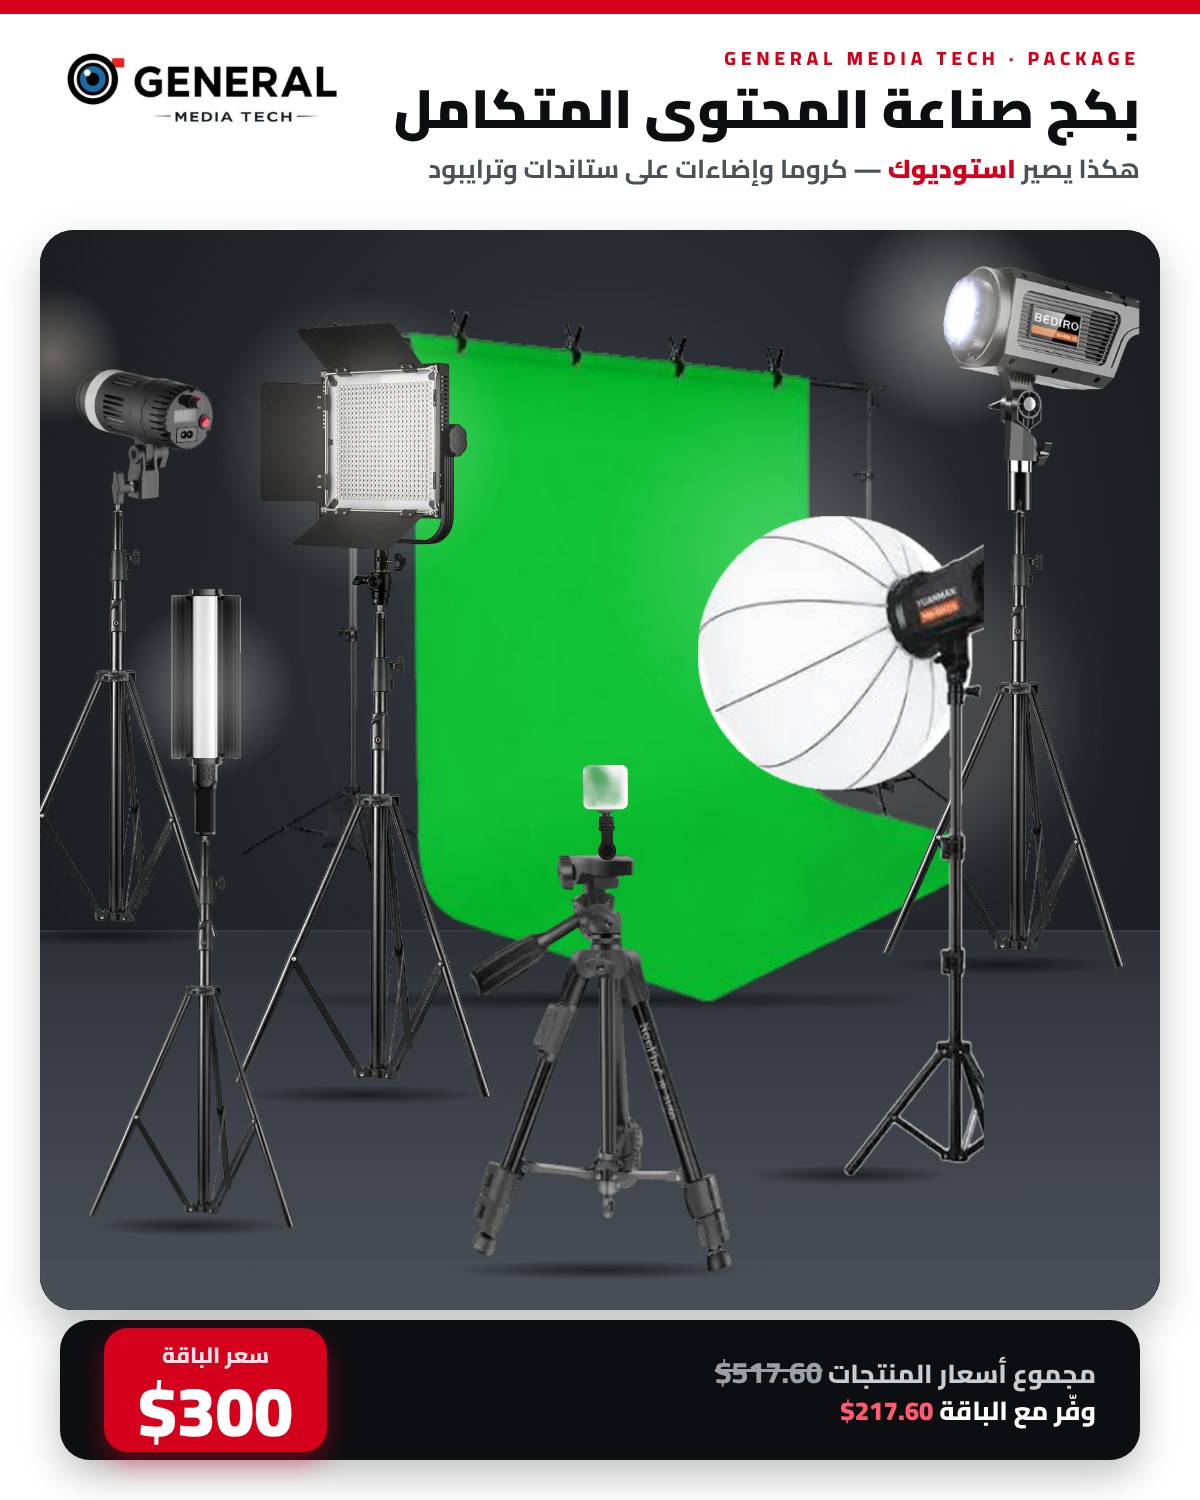
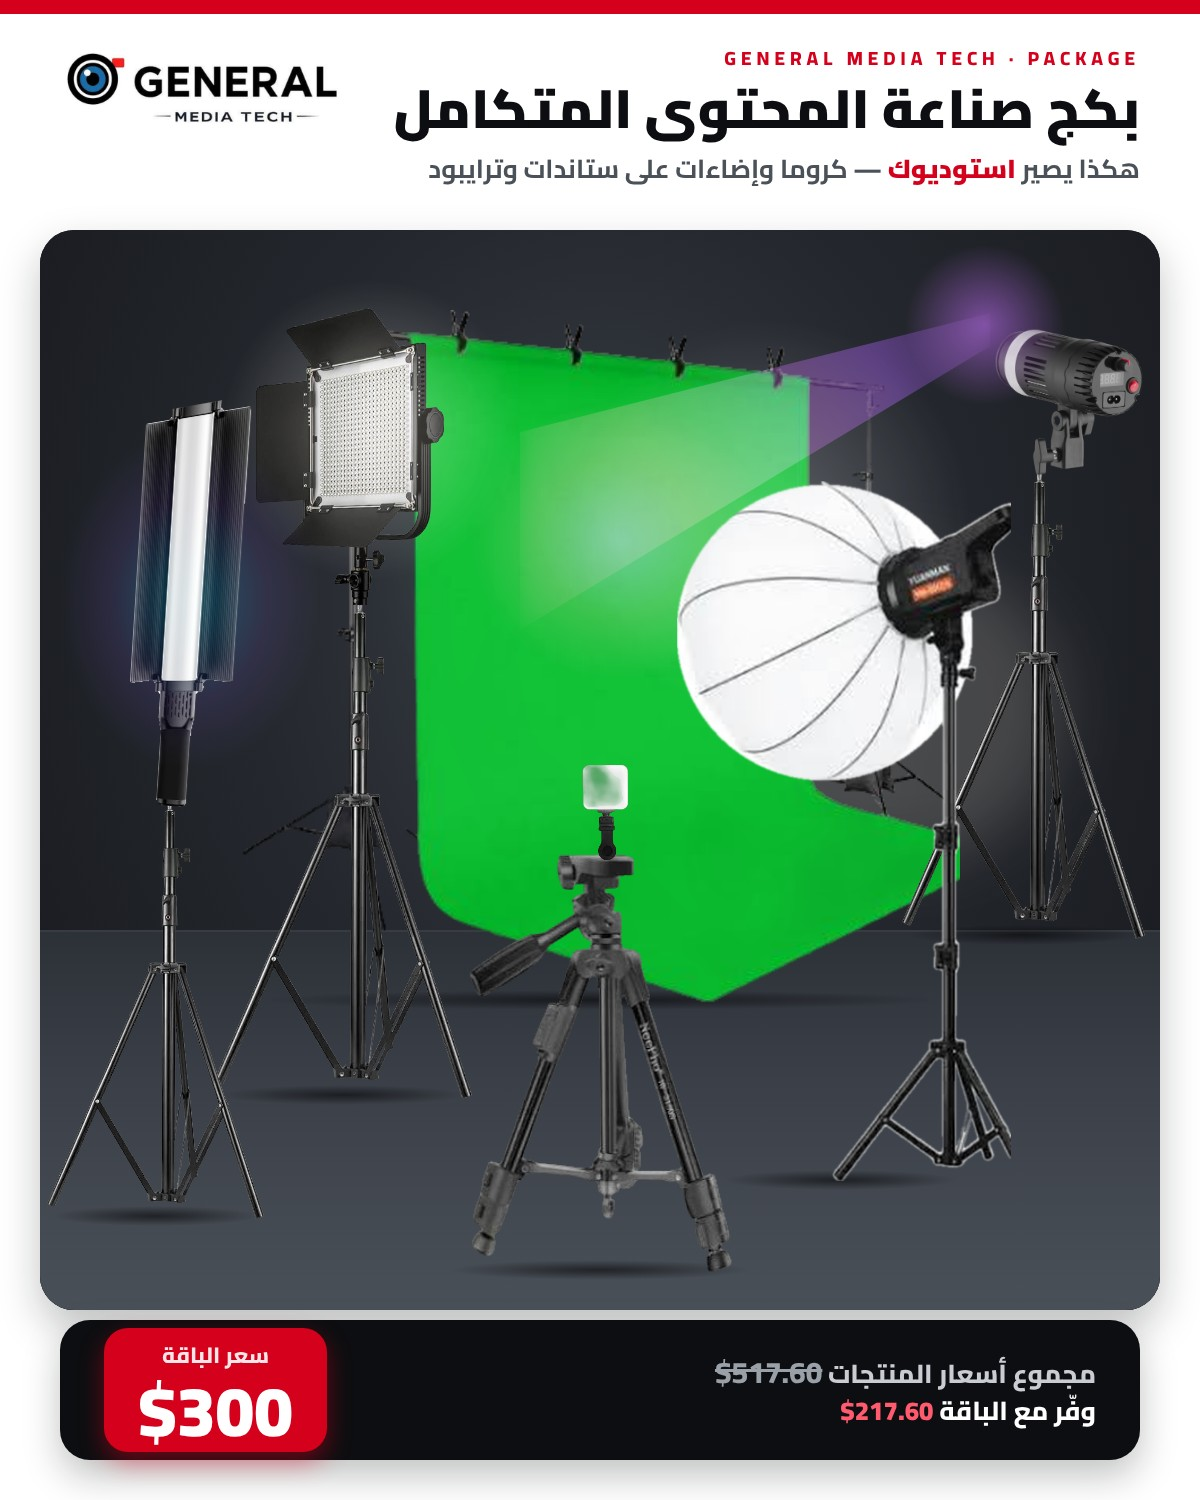
TASK-B0388/B0389 (seq B679): صورة الاستوديو المعدّلة · صور الباقة · نقطة حمراء للمنتج الذي له فيديو · gmt-v20261114i
Claude-Session: https://claude.ai/code/session_01XEjHNW9dqo1zWS8cEcUN7i

diff --git a/store.html b/store.html
@@ -57,6 +57,7 @@ window.GMT_PUBLIC = 1;</script>
         #pm-complete { margin: 6px 0 16px; background: #fafafa; border: 1px solid #f0f0f0; border-radius: 16px; padding: 12px; }
         #pm-complete h4 { font-size: 14px; font-weight: 800; margin: 0 0 10px; color: #111; } #pm-complete h4 small { font-weight: 600; color: #6b7280; font-size: 11.5px; }
         .pmc-row { display: flex; gap: 10px; overflow-x: auto; padding-bottom: 4px; }
+        .pc-vid { position: absolute; bottom: 8px; left: 8px; width: 26px; height: 26px; border-radius: 50%; background: #D5001C; color: #fff; display: flex; align-items: center; justify-content: center; font-size: 12px; box-shadow: 0 0 0 3px rgba(255,255,255,.9), 0 3px 10px rgba(213,0,28,.45); z-index: 2; pointer-events: none; }
         /* (TASK-B0380) عرض الطقم: سعر تقريبي يُطلب عبر واتساب — لا خصم تلقائي */
         #pm-kit { margin: 6px 0 16px; border-radius: 16px; padding: 12px; background: linear-gradient(135deg,#fff7ed,#fff); border: 1.5px solid #fed7aa; }
         #pm-kit .pk-h { display: flex; align-items: center; justify-content: space-between; gap: 8px; font: 800 14px Cairo, sans-serif; color: #111; margin-bottom: 10px; }
@@ -1140,6 +1141,8 @@ function _buildProductCard(prod) {
         imgWrap.appendChild(pen);
     }
     /* (TASK-0371 · المالك seq 653 «الأشياء اللي عليها عرض بيطلع علامة عرض وسعر مشطوب ومغيَّر») */
+    /* (المالك seq B679) «حط لي عليهم نقطة حمراء لحتى أشاهدهم» ⇒ المنتج الذي له فيديو: نقطةٌ حمراء بعلامة تشغيل على بطاقته */
+    if (String(prod.video_url || '').trim()) { const vd = document.createElement('div'); vd.className = 'pc-vid'; vd.title = 'فيه فيديو'; vd.innerHTML = '<i class="ph-fill ph-play"></i>'; imgWrap.appendChild(vd); }
     const _off = gmtProdOffer(prod);
     if (_off) { const ob = document.createElement('div'); ob.className = 'pc-offer'; ob.textContent = 'عرض −' + _off.pct + '%'; imgWrap.appendChild(ob); }
     card.appendChild(imgWrap);

diff --git a/gmt-whatsnew.js b/gmt-whatsnew.js
@@ -34,6 +34,8 @@
      v (رقم الدفعة) · t (العنوان) · d (شو صار) · w (ليش — العطل الذي أُصلح)
      pages (الصفحات المعنيّة · فارغة = الكلّ) · tag (نوع البند) */
   var NEWS = [
+    { v: 311, tag: 'جديد', at: '2026-11-14T23:00:00Z', t: '🔴 المتجر: نقطة حمراء على المنتج الذي له فيديو · صور الباقة', pages: ['store.html'],
+      d: '• على بطاقة كلّ منتج له فيديو **نقطة حمراء بعلامة تشغيل** — تفتحه فتجد الفيديو داخل معرضه.\n• باقة «صناعة المحتوى»: البوستر ثمّ صورة الاستوديو (معدّلة: إضاءات ملوّنة متّجهة للكروما) ثمّ صور المنتجات — بلا صورة الشخص.' },
     { v: 310, tag: 'جديد', at: '2026-11-14T22:10:00Z', t: '🧾 نقطة البيع: الباقة في الفاتورة مجموعةَ منتجات · بلا أسطر فارغة', pages: ['pos.html'],
       d: '• الباقة تُطبع **سطراً باسمها وسعرها ثمّ منتجاتها تحته** بكمّياتها («ضمن الباقة») — كما تُحفظ في الفاتورة.\n• **عدد أسطر الجدول = عدد المنتجات**: أُلغيت الأسطر الفارغة التي كانت تكمّل الجدول حتى ستّة (نقطة البيع وقالب الفاتورة).' },
     { v: 309, tag: 'إصلاح', at: '2026-11-14T22:00:00Z', t: '🎬 المتجر: الفيديو داخل المتجر كالصور · معاينة صور الباقة', pages: ['store.html'],

diff --git a/tests/harness/t_store_video_inline.js b/tests/harness/t_store_video_inline.js
@@ -14,6 +14,8 @@ const VISITOR = `try{ localStorage.clear(); localStorage.setItem('gmt_intro_seen
   const ig = []; o.pg.on('request', r => { if (/instagram\.com/.test(r.url())) ig.push(r.url()); });
   await o.ctx.route(/home\.json/, r => r.fulfill({ status: 200, contentType: 'application/json', body: JSON.stringify(st) }));
   await o.pg.goto(B + 'store.html', { waitUntil: 'domcontentloaded' }); await o.pg.waitForTimeout(4000);
+  const dots = await o.pg.evaluate(() => [...document.querySelectorAll('.pc-vid')].length);
+  ok(dots === 2, '(seq B679) نقطة حمراء على بطاقة كلّ منتج له فيديو: ' + dots);
   await o.pg.evaluate(() => openProductModal('v1')); await o.pg.waitForTimeout(1200);
   const a = await o.pg.evaluate(() => { const sl = [...document.querySelectorAll('#product-modal-slides > div')]; const v = sl[2] && sl[2].querySelector('video');
     const th = [...document.querySelectorAll('#pm-thumbs .pm-th')]; return { n: sl.length, srcs: v ? v.querySelectorAll('source').length : 0, src: v && (v.querySelector('source') || {}).src, poster: v && v.getAttribute('poster'), pre: v && v.preload, inline: v && v.hasAttribute('playsinline'),

diff --git a/sw.js b/sw.js
@@ -18,7 +18,7 @@
       ⇒ غيّر VERSION في كل نشر، وسيُعرض إشعار تحديث تلقائياً.
    ═══════════════════════════════════════════════════════════════════════════ */
 
-const VERSION = 'gmt-v20261114h';       // ⬅ غيّره في كل نشر
+const VERSION = 'gmt-v20261114i';       // ⬅ غيّره في كل نشر
 const LIBS    = VERSION + '-libs';
 /* (22 ت1 · TASK-0122) ملفّات قارئ الإيصال (lib/ocr: نواة التعرّف ٣٫٩ م.ب + نموذج العربية ١٫٧ م.ب) — كانت «الشبكة أوّلاً» مثل
    صفحات الموقع، فتُطلب من الشبكة في كل فتحة صفحة (بطيءٌ على اتّصالٍ ضعيف). محتواها ثابتٌ لاسمها (tesseract.js 7.0.0)

diff --git a/admin_store.html b/admin_store.html
@@ -3730,7 +3730,7 @@ renderOffersAdmin = function(){ GMTOffersTool.mount('gmt-offers-mount-store'); }
 <script src="gmt-brain.js?v=20261029z4"></script>
 <!-- 🆕 «شو الجديد» — نافذة تُعرَض مرّة واحدة لكل دفعة، وزرّ دائم بعدها.
      لا تُحمَّل على صفحات الزبون إطلاقاً (أخبار داخلية). -->
-<script src="gmt-whatsnew.js?v=20261114h"></script>
+<script src="gmt-whatsnew.js?v=20261114i"></script>
 <script src="gmt-refresh.js?v=20261011a"></script>
 <script src="gmt-intro.js?v=20261010b"></script>
 <!-- 🚫 (2026-10-03) حارس «لا أزرار عائمة» — كان مرفوعاً على ٥ صفحات من ٤٦،

diff --git a/user_guide.html b/user_guide.html
@@ -660,7 +660,7 @@ h3{font-size:16px;font-weight:900;color:#D5001C;margin:28px 0 10px}
 <script src="gmt-brain.js?v=20261029z4"></script>
 <!-- 🆕 «شو الجديد» — نافذة تُعرَض مرّة واحدة لكل دفعة، وزرّ دائم بعدها.
      لا تُحمَّل على صفحات الزبون إطلاقاً (أخبار داخلية). -->
-<script src="gmt-whatsnew.js?v=20261114h"></script>
+<script src="gmt-whatsnew.js?v=20261114i"></script>
 <script src="gmt-refresh.js?v=20261011a"></script>
 <script src="gmt-intro.js?v=20261010b"></script>
 <!-- 🚫 (2026-10-03) حارس «لا أزرار عائمة» — كان مرفوعاً على ٥ صفحات من ٤٦،

diff --git a/تفعيل_عقل_النظام.html b/تفعيل_عقل_النظام.html
@@ -259,7 +259,7 @@ supabase functions deploy gmt-brain --no-verify-jwt</code></pre>
 <!-- 🆕 «شو الجديد» — نافذة تُعرَض مرّة واحدة لكل دفعة، وزرّ دائم بعدها.
      لا تُحمَّل على صفحات الزبون إطلاقاً (أخبار داخلية). -->
 <script src="gmt-endpoint.js?v=20261017c"></script>
-<script src="gmt-whatsnew.js?v=20261114h"></script>
+<script src="gmt-whatsnew.js?v=20261114i"></script>
 <script src="gmt-refresh.js?v=20261011a"></script>
 <script src="gmt-intro.js?v=20261010b"></script>
 <!-- 🚫 (2026-10-03) حارس «لا أزرار عائمة» — كان مرفوعاً على ٥ صفحات من ٤٦،

diff --git a/bridge.html b/bridge.html
@@ -1694,7 +1694,7 @@ window.addEventListener('DOMContentLoaded', async () => {
 <script src="gmt-brain.js?v=20261029z4"></script>
 <!-- 🆕 «شو الجديد» — نافذة تُعرَض مرّة واحدة لكل دفعة، وزرّ دائم بعدها.
      لا تُحمَّل على صفحات الزبون إطلاقاً (أخبار داخلية). -->
-<script src="gmt-whatsnew.js?v=20261114h"></script>
+<script src="gmt-whatsnew.js?v=20261114i"></script>
 <script src="gmt-refresh.js?v=20261011a"></script>
 <script src="gmt-intro.js?v=20261010b"></script>
 <!-- 🚫 (2026-10-03) حارس «لا أزرار عائمة» — كان مرفوعاً على ٥ صفحات من ٤٦،

diff --git a/hiring.html b/hiring.html
@@ -1966,7 +1966,7 @@ document.addEventListener('DOMContentLoaded', () => {
 <script src="gmt-selfcheck.js?v=20261108f"></script>
 <!-- 🆕 «شو الجديد» — نافذة تُعرَض مرّة واحدة لكل دفعة، وزرّ دائم بعدها.
      لا تُحمَّل على صفحات الزبون إطلاقاً (أخبار داخلية). -->
-<script src="gmt-whatsnew.js?v=20261114h"></script>
+<script src="gmt-whatsnew.js?v=20261114i"></script>
 <script src="gmt-refresh.js?v=20261011a"></script>
 <script src="gmt-intro.js?v=20261010b"></script>
 <!-- 🚫 (2026-10-03) حارس «لا أزرار عائمة» — كان مرفوعاً على ٥ صفحات من ٤٦،

diff --git a/backup.html b/backup.html
@@ -365,7 +365,7 @@ async function doRestore(dbKey, fname, table) {
 <script src="gmt-brain.js?v=20261029z4"></script>
 <!-- 🆕 «شو الجديد» — نافذة تُعرَض مرّة واحدة لكل دفعة، وزرّ دائم بعدها.
      لا تُحمَّل على صفحات الزبون إطلاقاً (أخبار داخلية). -->
-<script src="gmt-whatsnew.js?v=20261114h"></script>
+<script src="gmt-whatsnew.js?v=20261114i"></script>
 <script src="gmt-refresh.js?v=20261011a"></script>
 <script src="gmt-intro.js?v=20261010b"></script>
 <!-- 🚫 (2026-10-03) حارس «لا أزرار عائمة» — كان مرفوعاً على ٥ صفحات من ٤٦،

diff --git a/admin_sovereign.html b/admin_sovereign.html
@@ -384,7 +384,7 @@ function savePwManager(){ openPwManager(); }
 <script src="gmt-brain.js?v=20261029z4"></script>
 <!-- 🆕 «شو الجديد» — نافذة تُعرَض مرّة واحدة لكل دفعة، وزرّ دائم بعدها.
      لا تُحمَّل على صفحات الزبون إطلاقاً (أخبار داخلية). -->
-<script src="gmt-whatsnew.js?v=20261114h"></script>
+<script src="gmt-whatsnew.js?v=20261114i"></script>
 <script src="gmt-refresh.js?v=20261011a"></script>
 <script src="gmt-intro.js?v=20261010b"></script>
 <!-- 🚫 (2026-10-03) حارس «لا أزرار عائمة» — كان مرفوعاً على ٥ صفحات من ٤٦،

diff --git a/checks.html b/checks.html
@@ -423,7 +423,7 @@ el('copyall').onclick = function(){
 <script src="gmt-brain.js?v=20261029z4"></script>
 <!-- 🆕 «شو الجديد» — نافذة تُعرَض مرّة واحدة لكل دفعة، وزرّ دائم بعدها.
      لا تُحمَّل على صفحات الزبون إطلاقاً (أخبار داخلية). -->
-<script src="gmt-whatsnew.js?v=20261114h"></script>
+<script src="gmt-whatsnew.js?v=20261114i"></script>
 <script src="gmt-refresh.js?v=20261011a"></script>
 <script src="gmt-intro.js?v=20261010b"></script>
 <!-- 🚫 (2026-10-03) حارس «لا أزرار عائمة» — كان مرفوعاً على ٥ صفحات من ٤٦،
